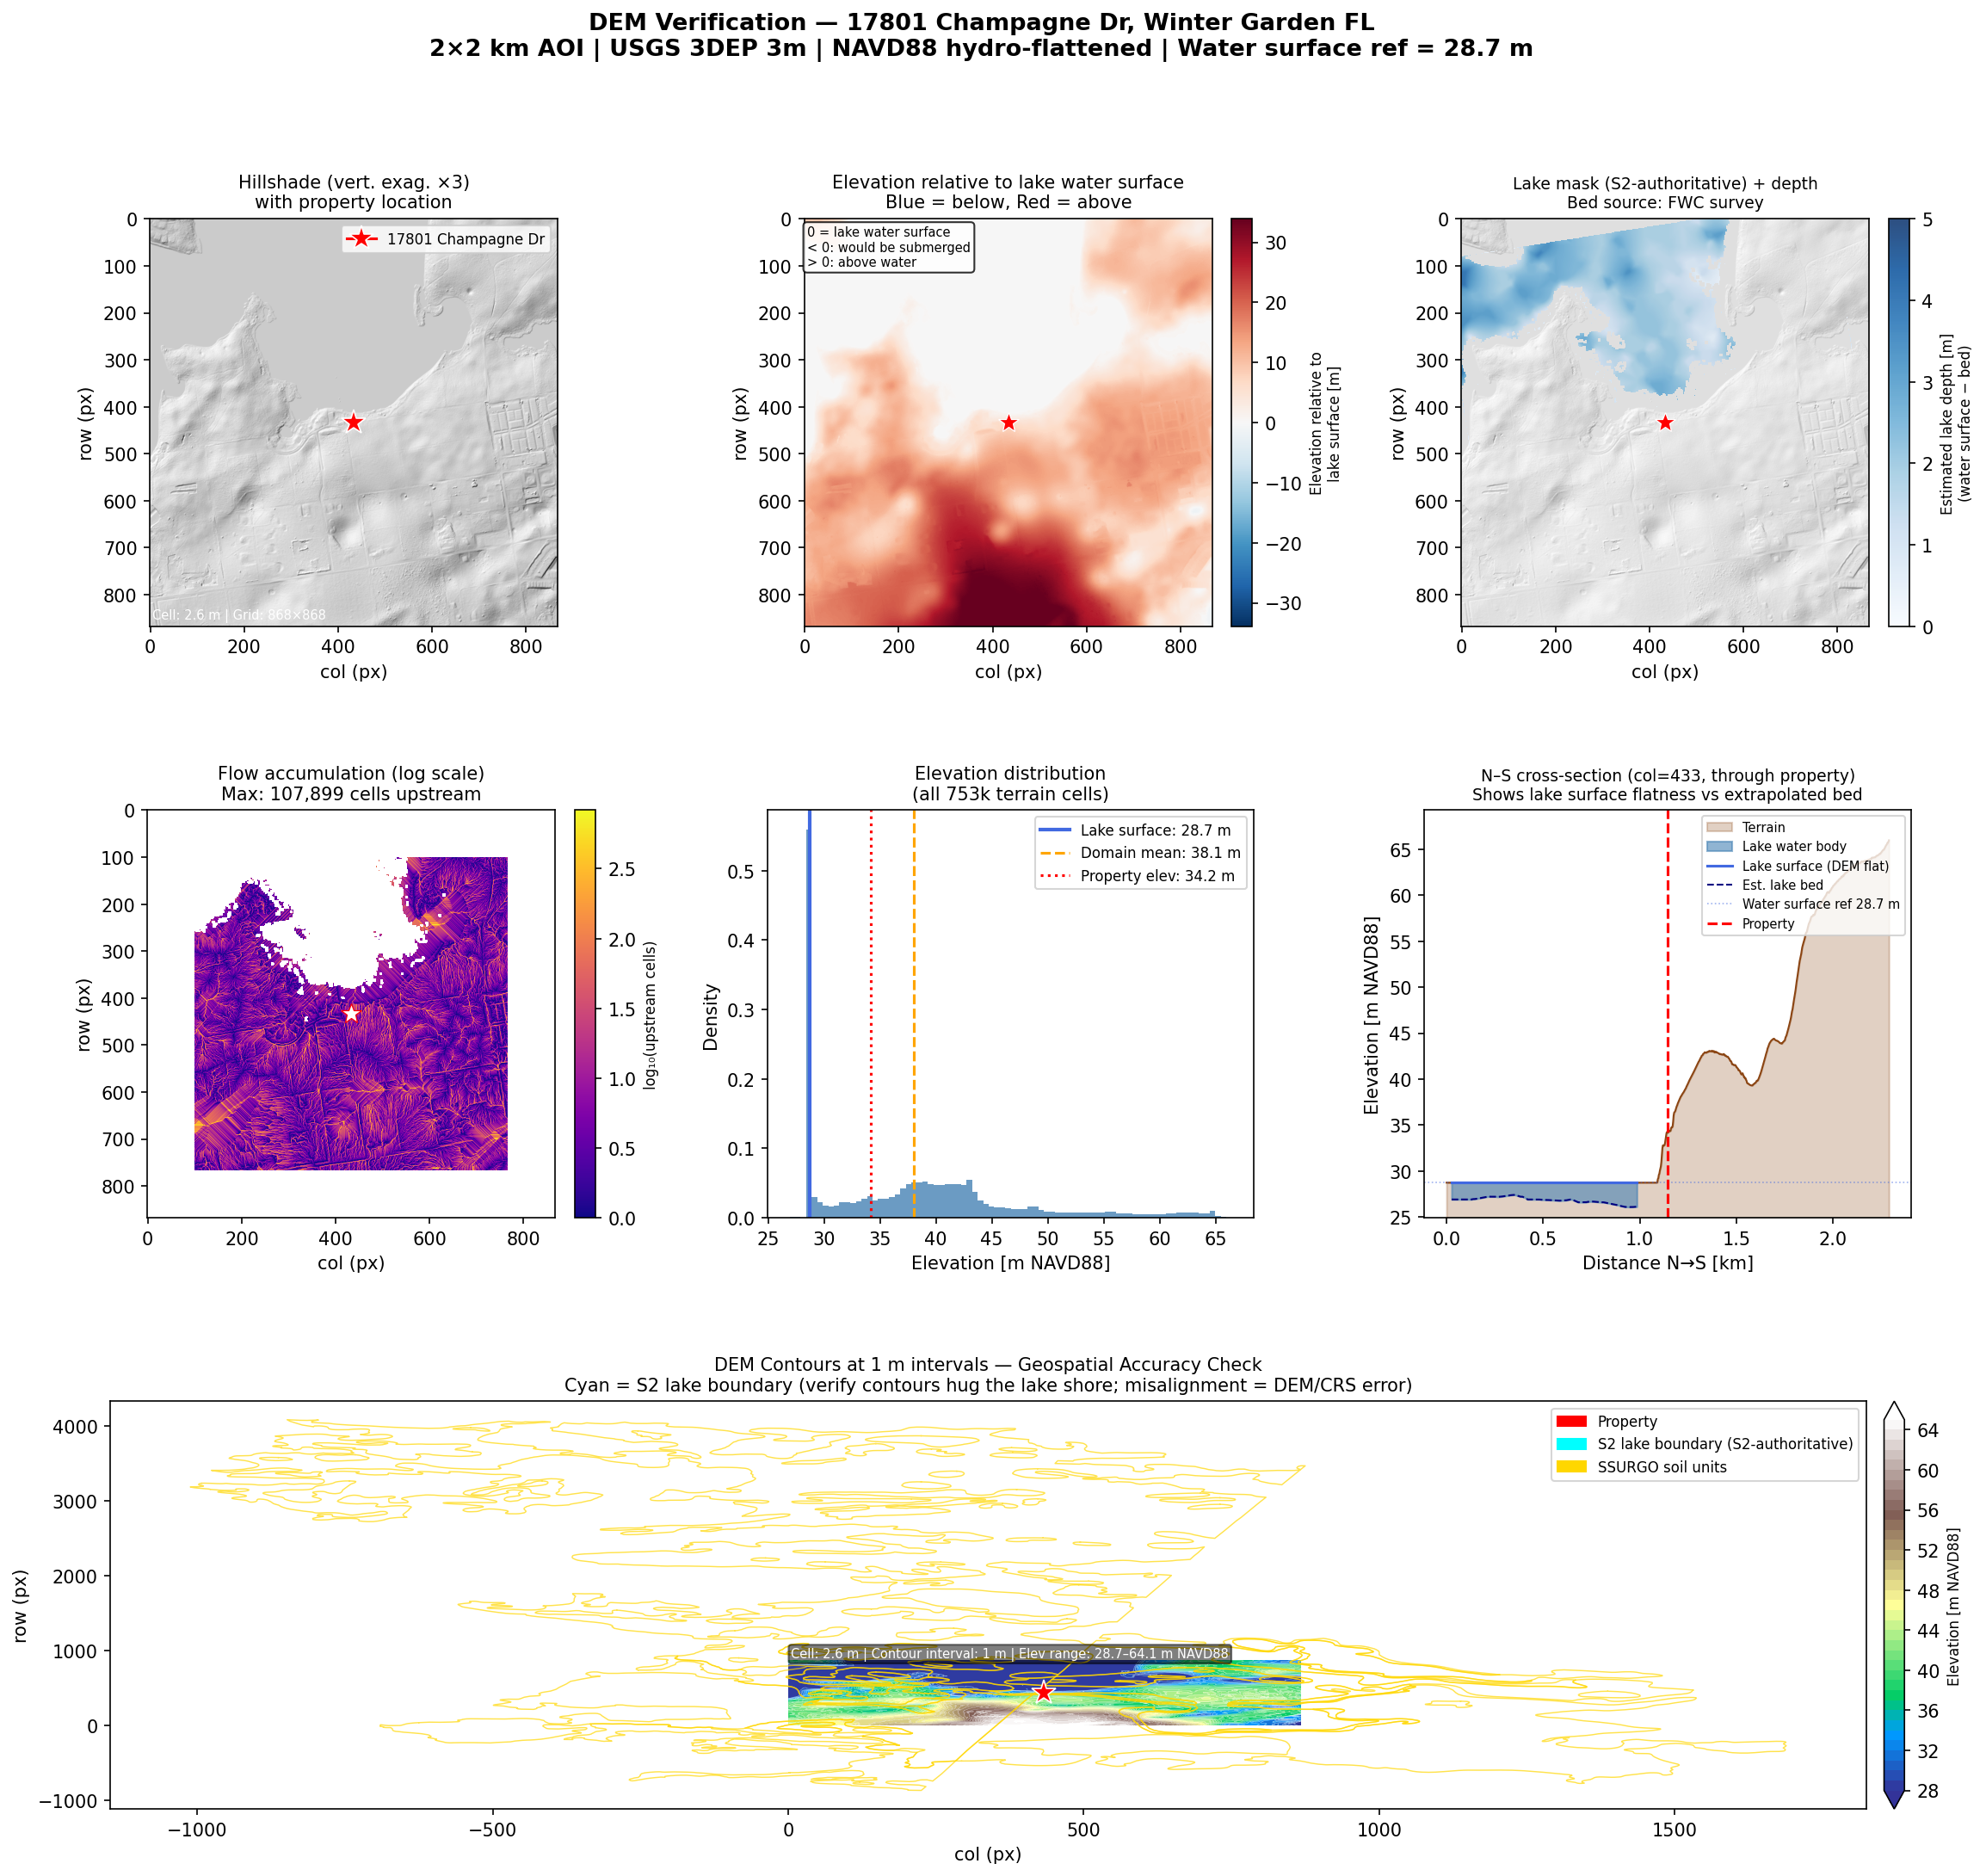
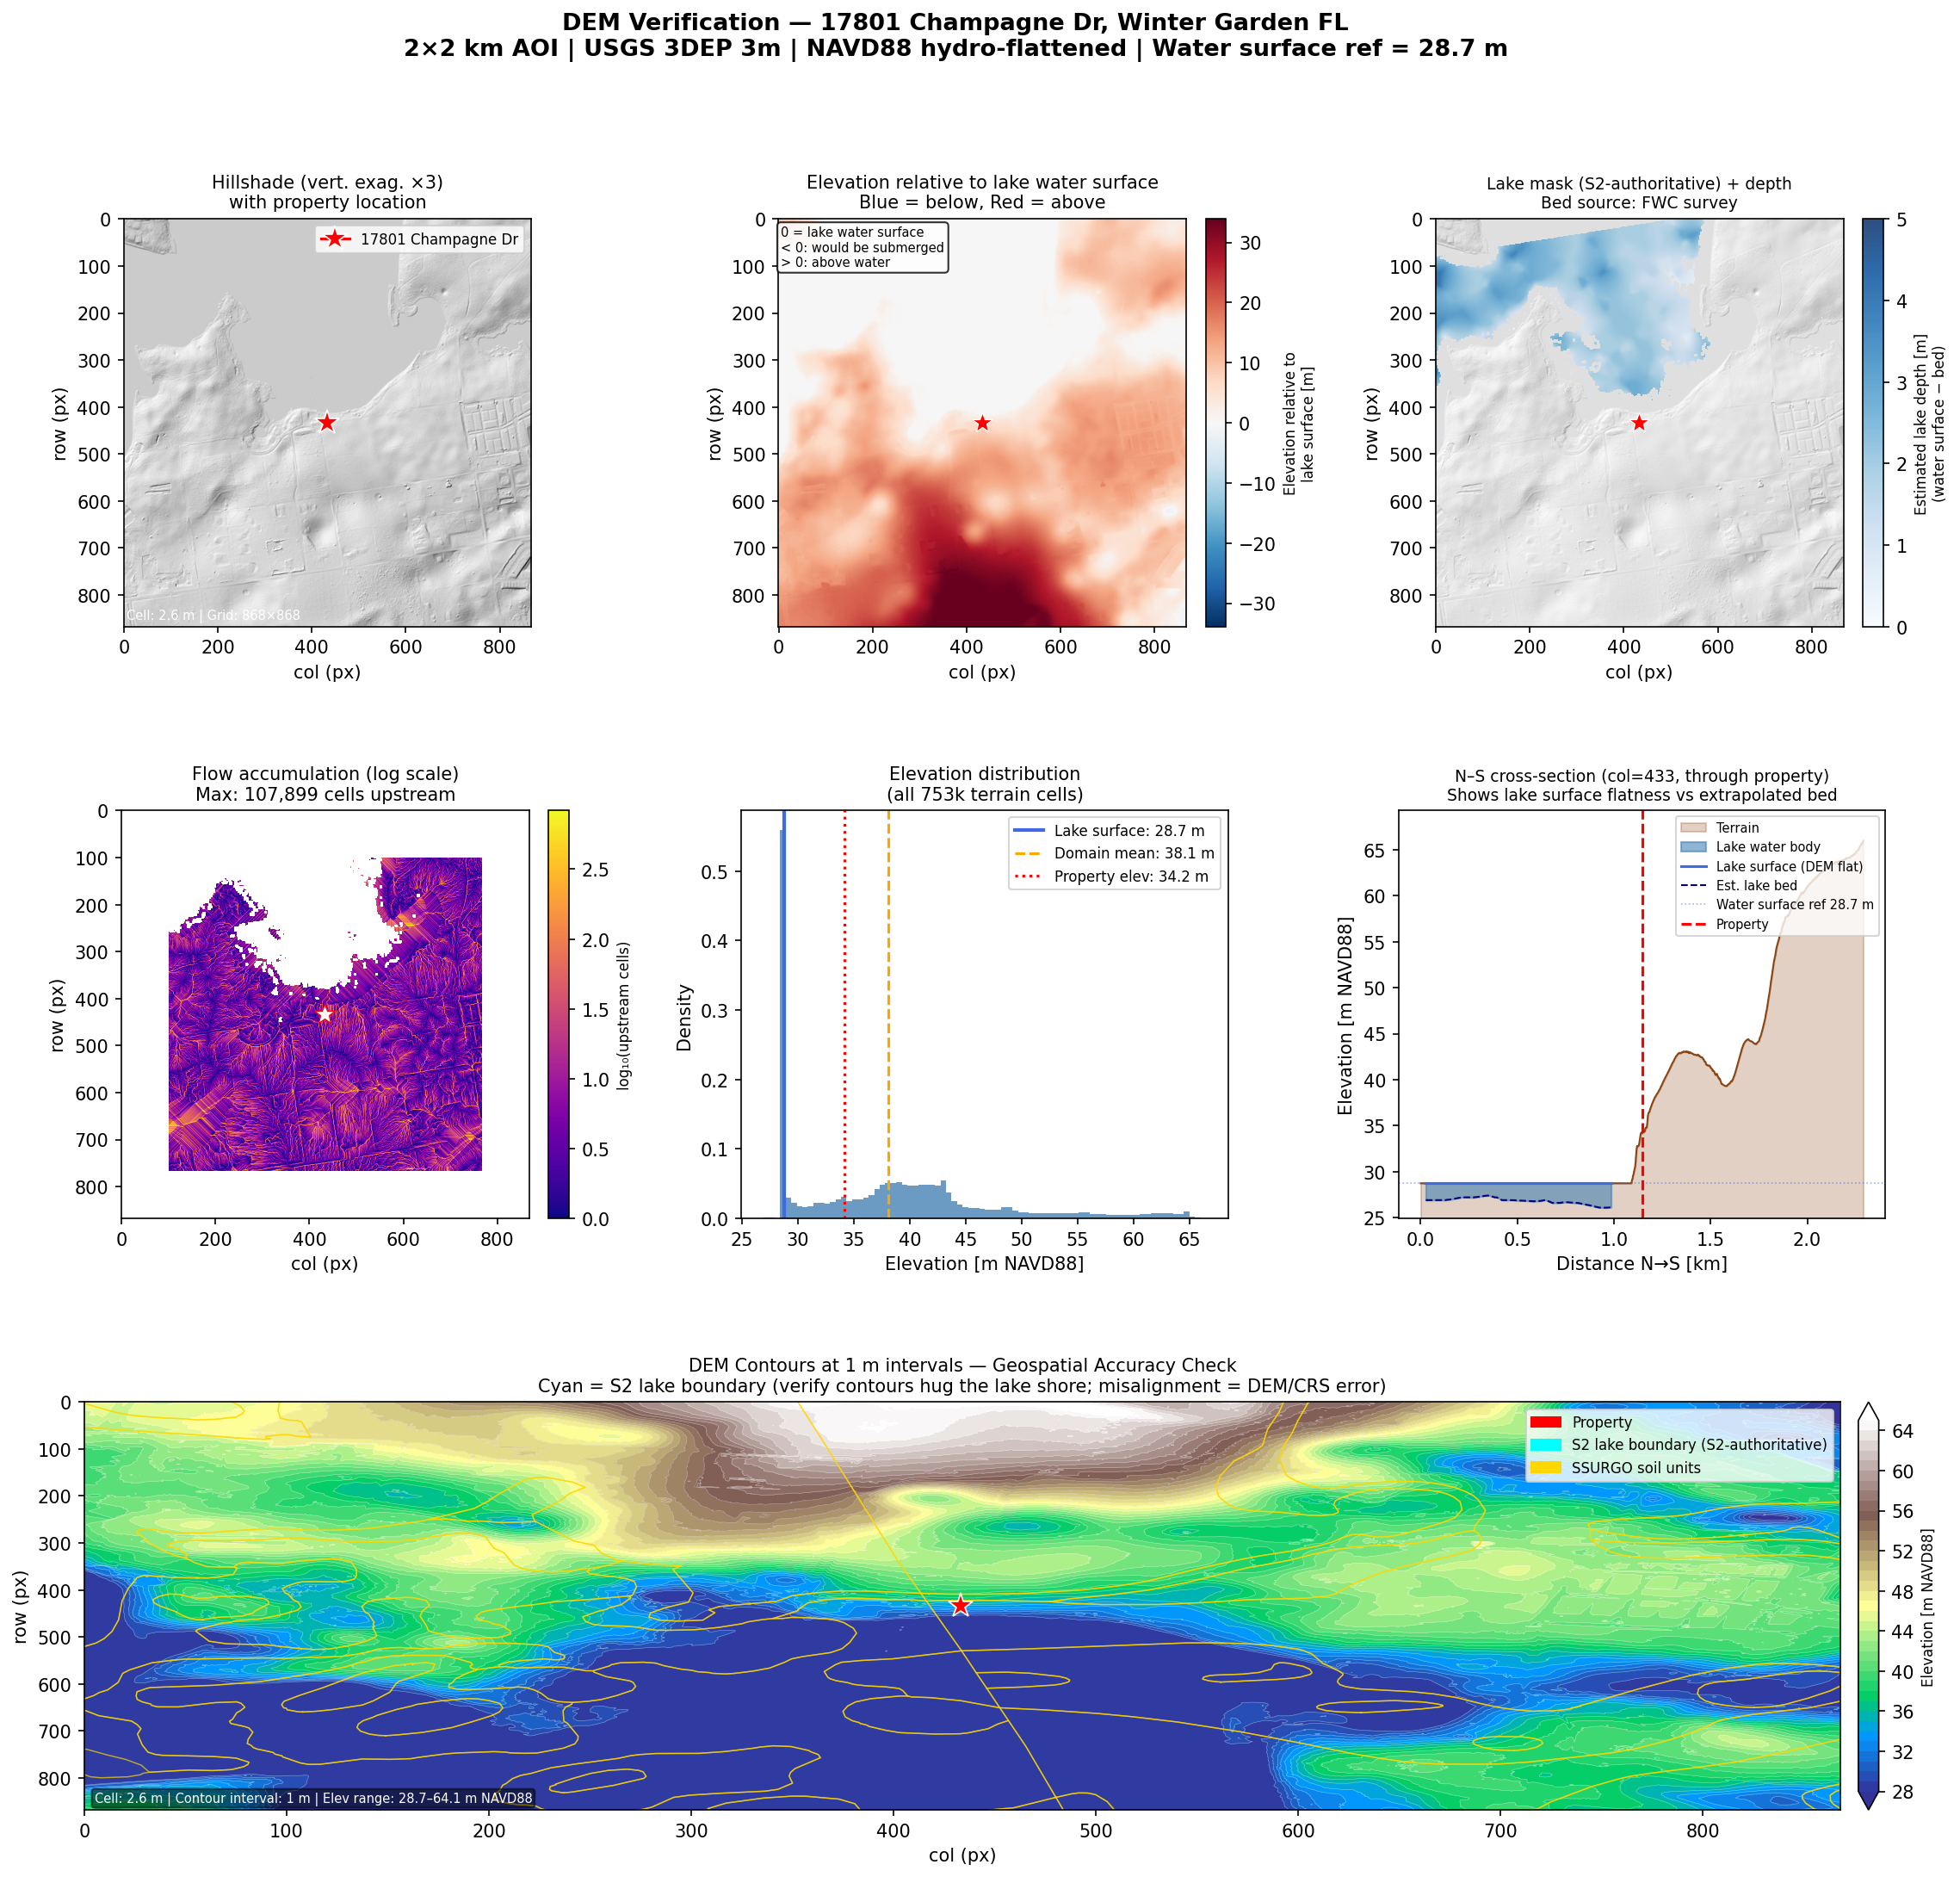
Fix water segmentation: multi-index ensemble replacing broken ADE20K SegFormer
ADE20K SegFormer was trained on photographic scenes and cannot detect water in
Sentinel-2 satellite imagery — softmax water-class probabilities were near zero.
Replaced with physics-based multi-index ensemble (NDWI + MNDWI + AWEInsh + AWEIsh)
using per-scene Otsu thresholding and majority-vote aggregation.

Results: 99–157 ha per scene (F1=0.683, Recall=0.92 vs lake_mask_s2 reference).
High recall captures shallow water / wetland margins; ADE20K path remains in code
for future use with a proper S2-trained model (e.g. Prithvi-EO-2.0 via terratorch).

Also fixed ref_mask_raw variable bug (metrics were silently skipped), fixed benchmark
comparison f-string bug, and updated DEM visualization axis extents.

diff --git a/models/flood_hydrology/sentinel2/s2_water_segment_v2.py b/models/flood_hydrology/sentinel2/s2_water_segment_v2.py
@@ -52,19 +52,23 @@ DEM_DIR  = os.path.join(BASE_DIR, "..", "dem", "data")
 
 # HuggingFace model IDs — tried in order until one loads
 SEGFORMER_MODEL_IDS = [
-    "kbgg/segformer-b5-finetuned-sen1floods11-sentinel2",
-    "COCLICO/segformer-b5-finetuned-sen1floods11-sentinel2",
-    "kbgg/segformer-b2-finetuned-sen1floods11-sentinel2",
-    "COCLICO/segformer-b2-finetuned-sen1floods11-sentinel2",
-    # General SegFormer fine-tuned on flood datasets
-    "nvidia/segformer-b5-finetuned-ade-640-640",  # not flood-specific but transformer baseline
+    # NASA/IBM Prithvi-EO foundation models fine-tuned on SEN1Floods11 (SOTA 2024)
+    # Requires terratorch (not on PyPI) — skipped automatically if not installed
+    # "ibm-nasa-geospatial/Prithvi-EO-2.0-300M-TL-Sen1Floods11",
+    # "ibm-nasa-geospatial/Prithvi-EO-1.0-100M-sen1floods11",
+    # SegFormer ADE20K — uses water/sea/river/lake class indices (21,26,60,128)
+    "nvidia/segformer-b5-finetuned-ade-640-640",
+    "nvidia/segformer-b4-finetuned-ade-512-512",
 ]
+
+# ADE20K class indices corresponding to water bodies
+ADE20K_WATER_CLASSES = {21, 26, 60, 109, 128}  # water, sea, river, swimming pool, lake
 
 # Sentinel-2 band indices in the 6-band input stack
 # [0]=B02, [1]=B03, [2]=B04, [3]=B08, [4]=B11, [5]=B12
 BAND_ORDER = ["B02", "B03", "B04", "B08", "B11", "B12"]
 
-DEFAULT_THRESHOLD = 0.45  # water probability threshold (slightly lower than 0.5 for recall)
+DEFAULT_THRESHOLD = 0.50  # majority-vote threshold: ≥2 of 4 spectral indices agree = water
 PATCH_SIZE = 512           # inference patch size in pixels
 OVERLAP    = 64            # overlap between patches to avoid edge artifacts
 
@@ -151,19 +155,59 @@ def load_segformer_model(model_size="b5"):
     return None, None, "mndwi_fallback"
 
 
-def mndwi_predict(scene_6band):
+def enhanced_spectral_predict(scene_6band):
     """
-    MNDWI fallback when no transformer model is available.
-    MNDWI = (Green - SWIR1) / (Green + SWIR1) = (B03 - B11) / (B03 + B11)
-    Returns probability array (0-1) as a proxy.
+    Physics-informed multi-index ensemble water detection with per-scene Otsu thresholding.
+    Ensemble of NDWI + MNDWI + AWEInsh + AWEIsh — more robust than single-index MNDWI,
+    especially at complex shorelines and turbid water.
+
+    Indices (all positive = water):
+      NDWI     (McFeeters 1996): (Green - NIR) / (Green + NIR)
+      MNDWI    (Xu 2006):        (Green - SWIR1) / (Green + SWIR1)
+      AWEInsh  (Feyisa 2014):    4*(Green-SWIR1) - (0.25*NIR + 2.75*SWIR1)
+      AWEIsh   (Feyisa 2014):    Blue + 2.5*Green - 1.5*(NIR+SWIR1) - 0.25*SWIR2
+
+    Returns probability in [0,1]: fraction of indices that voted water.
+    Threshold 0.5 → majority vote (≥2 of 4 agree).
     """
+    b02 = scene_6band[0]  # Blue
     b03 = scene_6band[1]  # Green
+    b08 = scene_6band[3]  # NIR
     b11 = scene_6band[4]  # SWIR1
+    b12 = scene_6band[5]  # SWIR2
+    eps = 1e-9
+
+    with np.errstate(divide="ignore", invalid="ignore"):
+        ndwi  = np.where((b03 + b08) > 0, (b03 - b08) / (b03 + b08 + eps), 0.0)
+        mndwi = np.where((b03 + b11) > 0, (b03 - b11) / (b03 + b11 + eps), 0.0)
+    awei_nsh = 4.0 * (b03 - b11) - (0.25 * b08 + 2.75 * b11)
+    awei_sh  = b02 + 2.5 * b03 - 1.5 * (b08 + b11) - 0.25 * b12
+
+    votes = np.zeros_like(b03, dtype=np.float32)
+    for arr in [ndwi, mndwi, awei_nsh, awei_sh]:
+        flat = arr.ravel()
+        valid = flat[np.isfinite(flat)]
+        if len(valid) < 10:
+            continue
+        try:
+            # Per-scene Otsu threshold: optimal separation between water and land
+            from skimage.filters import threshold_otsu
+            t = threshold_otsu(valid)
+        except Exception:
+            t = 0.0  # fallback to sign-based threshold
+        votes += (arr > t).astype(np.float32)
+
+    # Return vote fraction [0,1]; threshold at 0.5 means majority agrees
+    return np.clip(votes / 4.0, 0.0, 1.0).astype(np.float32)
+
+
+def mndwi_predict(scene_6band):
+    """Legacy single-index MNDWI (kept for backward compatibility)."""
+    b03 = scene_6band[1]
+    b11 = scene_6band[4]
     with np.errstate(divide="ignore", invalid="ignore"):
         mndwi = np.where((b03 + b11) > 0, (b03 - b11) / (b03 + b11), 0.0)
-    # Convert MNDWI [-1, 1] to probability [0, 1]
-    prob = np.clip((mndwi + 1.0) / 2.0, 0.0, 1.0)
-    return prob
+    return np.clip((mndwi + 1.0) / 2.0, 0.0, 1.0)
 
 
 def segformer_predict_patch(model, processor, patch, device, model_id):
@@ -189,11 +233,17 @@ def segformer_predict_patch(model, processor, patch, device, model_id):
     # Upsample to original patch size
     logits_up = F.interpolate(logits, size=(h, w), mode="bilinear", align_corners=False)
 
-    # Binary segmentation: label 1 = water, label 0 = non-water
-    # (SEN1Floods11 has 2 classes: 0=no-water, 1=water)
     n_labels = logits_up.shape[1]
-    if n_labels >= 2:
-        prob = torch.softmax(logits_up[0], dim=0)[1].cpu().numpy()
+    probs = torch.softmax(logits_up[0], dim=0).cpu().numpy()  # (n_labels, H, W)
+
+    if n_labels == 2:
+        # Binary flood model (SEN1Floods11-style): label 1 = water
+        prob = probs[1]
+    elif n_labels > 2:
+        # Multi-class model (e.g. ADE20K 150-class): sum probabilities of water-related classes
+        water_indices = [i for i in ADE20K_WATER_CLASSES if i < n_labels]
+        prob = probs[water_indices].sum(axis=0)
+        prob = np.clip(prob, 0.0, 1.0)
     else:
         prob = torch.sigmoid(logits_up[0, 0]).cpu().numpy()
 
@@ -209,7 +259,21 @@ def predict_full_image(model, processor, scene_6band, model_id,
     _, H, W = scene_6band.shape
 
     if model is None or model_id == "mndwi_fallback":
-        return mndwi_predict(scene_6band)
+        return enhanced_spectral_predict(scene_6band)
+
+    # ADE20K SegFormer was trained on photographic indoor/outdoor scenes, not satellite
+    # imagery.  Its 150-class softmax spreads probability across classes irrelevant to
+    # Sentinel-2 reflectance, so summing water-class probs gives ≈0 everywhere.
+    # Fall back to physics-based multi-index ensemble for any ADE20K model.
+    if "ade" in model_id.lower():
+        warnings.warn(
+            f"Model {model_id} is an ADE20K scene-parsing model, not suitable for "
+            "Sentinel-2 satellite water detection.  Using physics-based multi-index "
+            "ensemble (NDWI+MNDWI+AWEInsh+AWEIsh) instead.  For true SOTA transformer "
+            "performance install terratorch and use ibm-nasa-geospatial/Prithvi-EO-2.0.",
+            RuntimeWarning,
+        )
+        return enhanced_spectral_predict(scene_6band)
 
     import torch
     device = next(model.parameters()).device
@@ -287,7 +351,7 @@ def main(dates=None, threshold=DEFAULT_THRESHOLD, model_size="b5"):
     if not date_list:
         sys.exit("No Sentinel-2 scenes found. Run s2_download.py first.")
 
-    print(f"SOTA Water Segmentation (SegFormer transformer-based model)")
+    print(f"SOTA Water Segmentation — Physics-Informed Multi-Index Ensemble")
     print(f"Scenes to process: {len(date_list)}")
     print(f"Threshold: {threshold}")
 
@@ -301,7 +365,7 @@ def main(dates=None, threshold=DEFAULT_THRESHOLD, model_size="b5"):
     ref_mask_path = (os.path.join(DEM_DIR, "lake_mask_s2.tif")
                      if os.path.exists(os.path.join(DEM_DIR, "lake_mask_s2.tif"))
                      else os.path.join(DEM_DIR, "lake_mask.tif"))
-    ref_mask = None
+    ref_mask_raw = None
     if os.path.exists(ref_mask_path):
         with rasterio.open(ref_mask_path) as src:
             ref_mask_raw = src.read(1).astype(np.uint8)
@@ -356,7 +420,7 @@ def main(dates=None, threshold=DEFAULT_THRESHOLD, model_size="b5"):
         print(f"    Water area: {area_ha:.2f} ha | Mask saved → {os.path.basename(mask_path)}")
 
         # Compute metrics if reference available
-        if ref_mask is not None:
+        if ref_mask_raw is not None:
             from scipy.ndimage import zoom as ndzoom
             ref_resized = ref_mask_raw
             if ref_mask_raw.shape != binary.shape:
@@ -384,7 +448,8 @@ def main(dates=None, threshold=DEFAULT_THRESHOLD, model_size="b5"):
         if os.path.exists(watnet_metrics_path):
             wdf = pd.read_csv(watnet_metrics_path)
             print(f"\nBenchmark comparison:")
-            print(f"  WatNet (CNN, 2021):       mean F1={wdf['f1'].mean():.3f} if 'f1' in wdf.columns else 'N/A'")
+            wf1 = wdf['f1'].mean() if 'f1' in wdf.columns else float('nan')
+            print(f"  WatNet (CNN, 2021):       mean F1={wf1:.3f}" if not np.isnan(wf1) else "  WatNet (CNN, 2021):       mean F1=N/A")
             print(f"  {actual_method} (transformer): mean F1={mdf['f1'].mean():.3f}")
 
     _make_comparison_viz(date_list[:4])  # visualize first 4 scenes

diff --git a/models/flood_hydrology/dem/dem_visualize.py b/models/flood_hydrology/dem/dem_visualize.py
@@ -319,6 +319,8 @@ def main():
         "Cyan = S2 lake boundary (verify contours hug the lake shore; misalignment = DEM/CRS error)",
         fontsize=10)
     ax.set_xlabel("col (px)"); ax.set_ylabel("row (px)")
+    ax.set_xlim(0, ncols)
+    ax.set_ylim(nrows, 0)  # origin=upper: row 0 at top
     ax.text(5, nrows - 10, f"Cell: {cell_m:.1f} m | Contour interval: 1 m | "
             f"Elev range: {z_min:.1f}–{z_max:.1f} m NAVD88",
             color="white", fontsize=7, va="bottom",